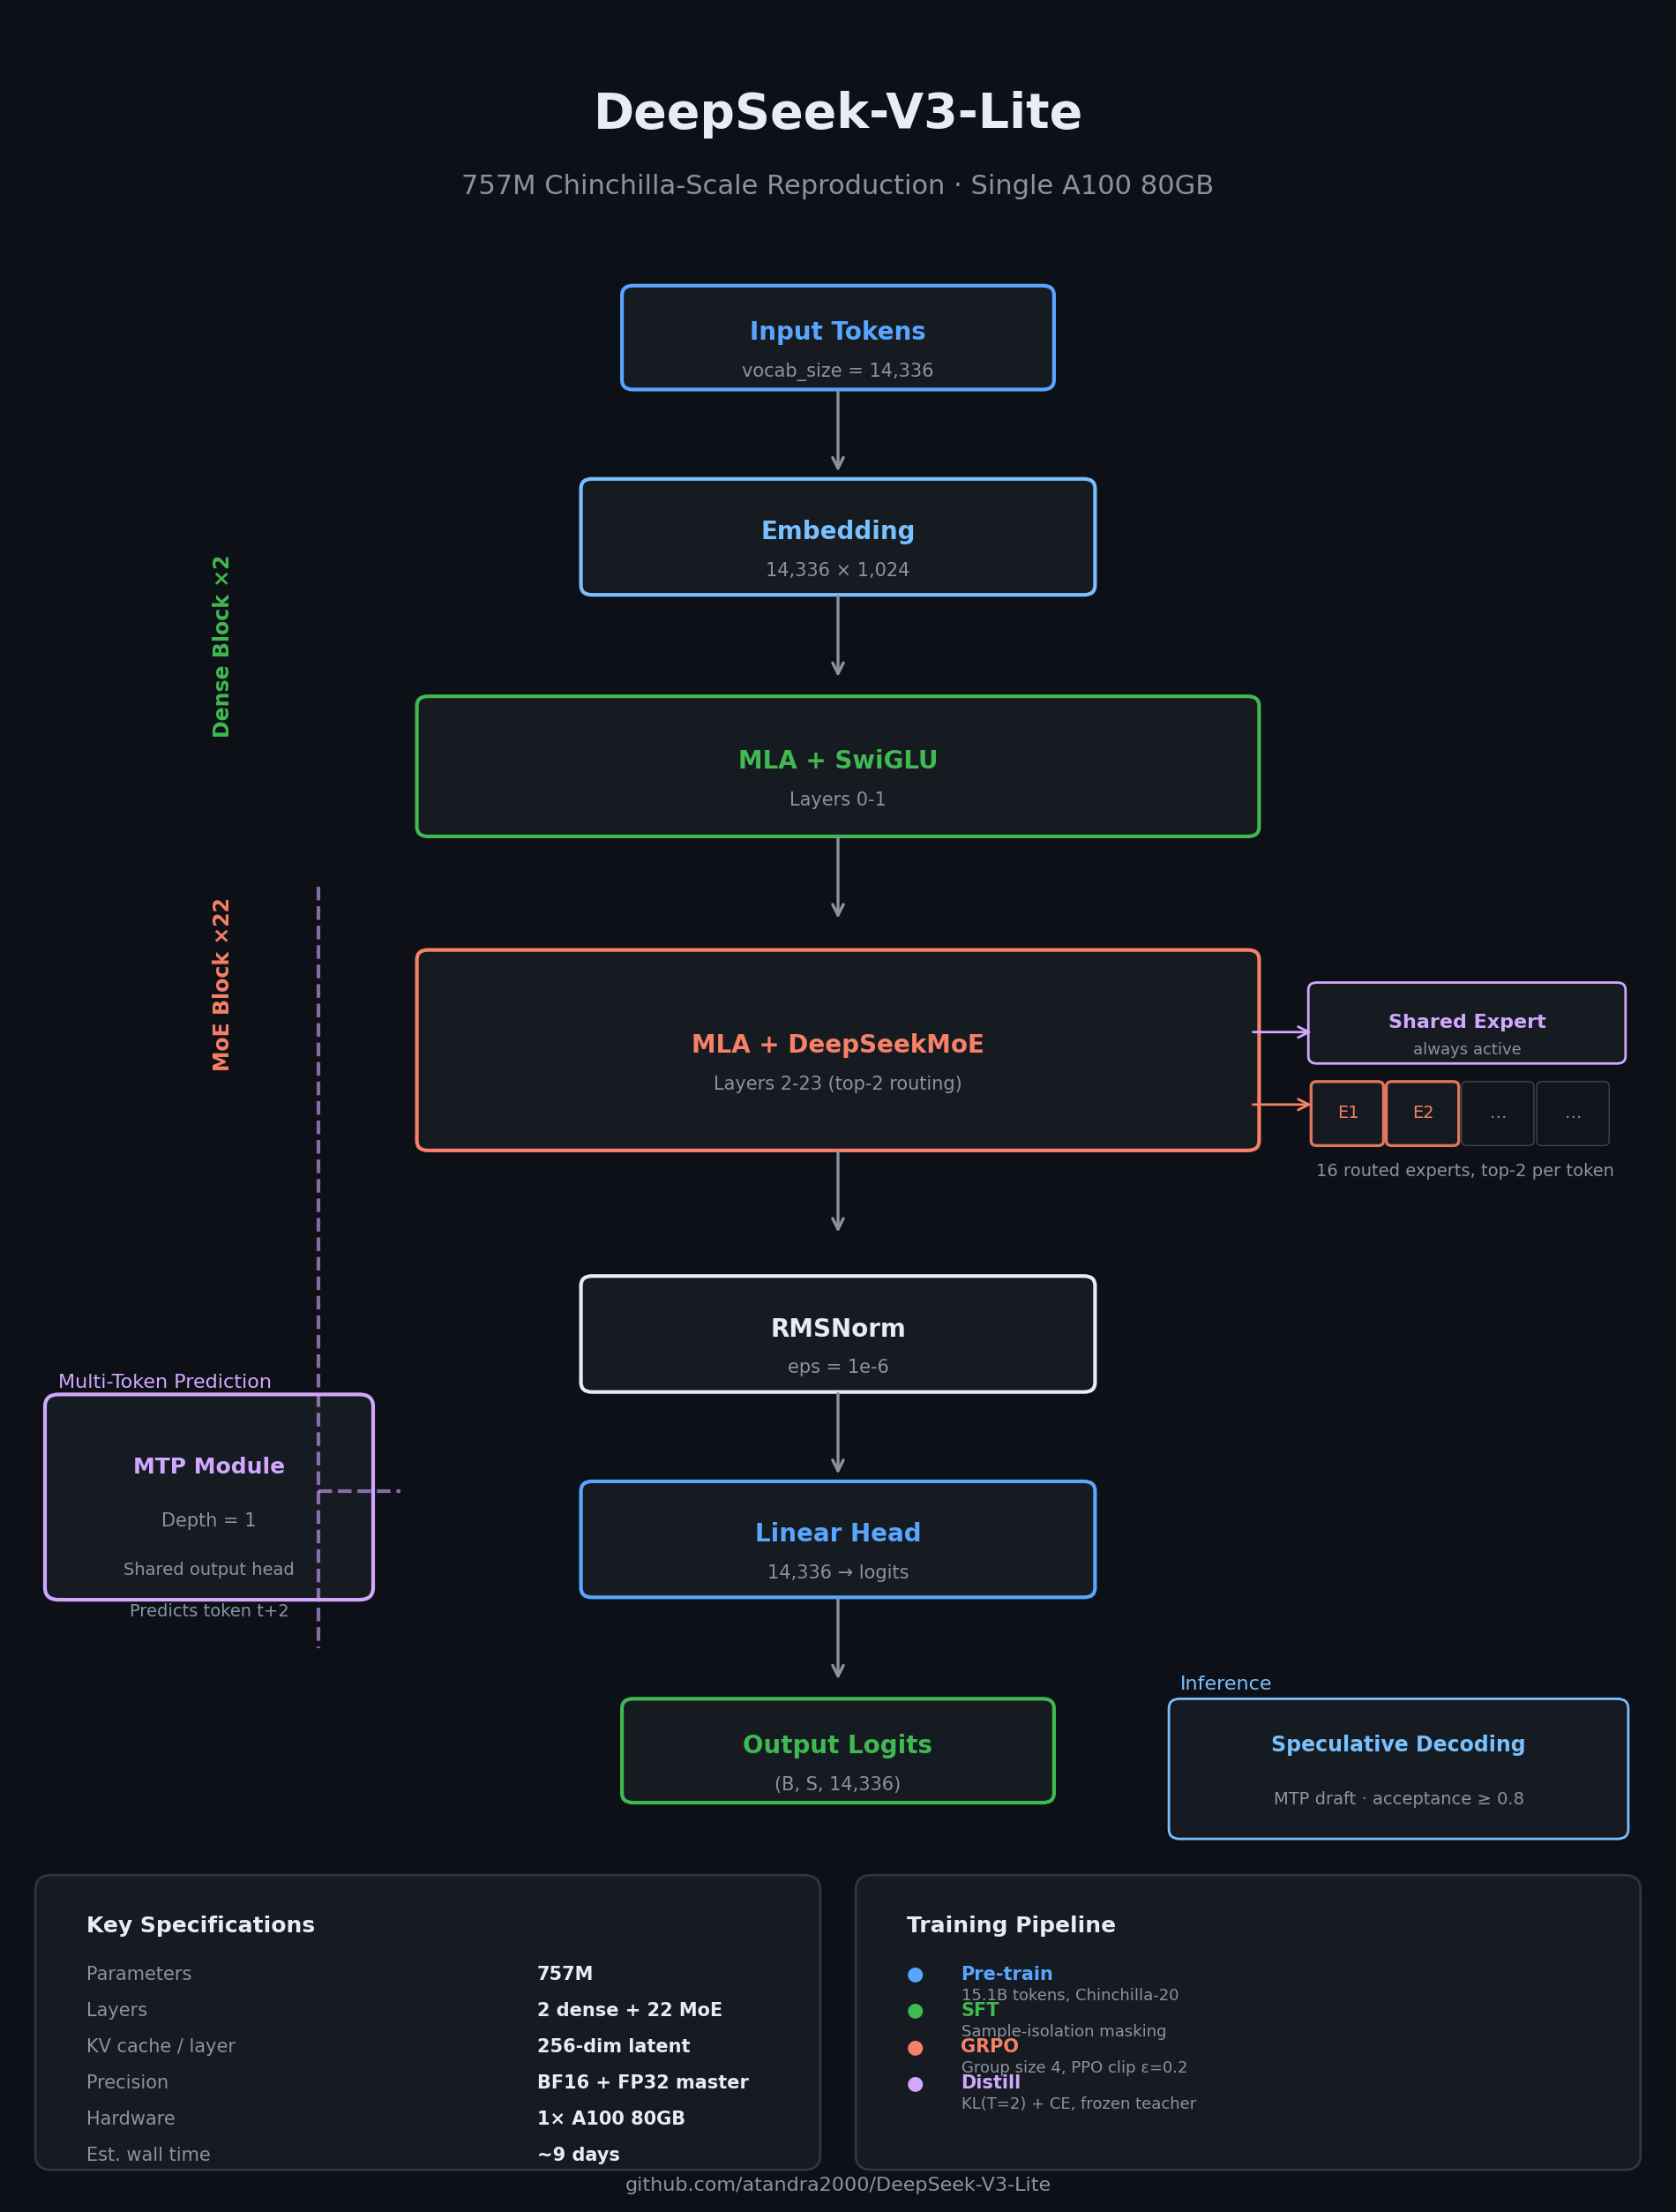
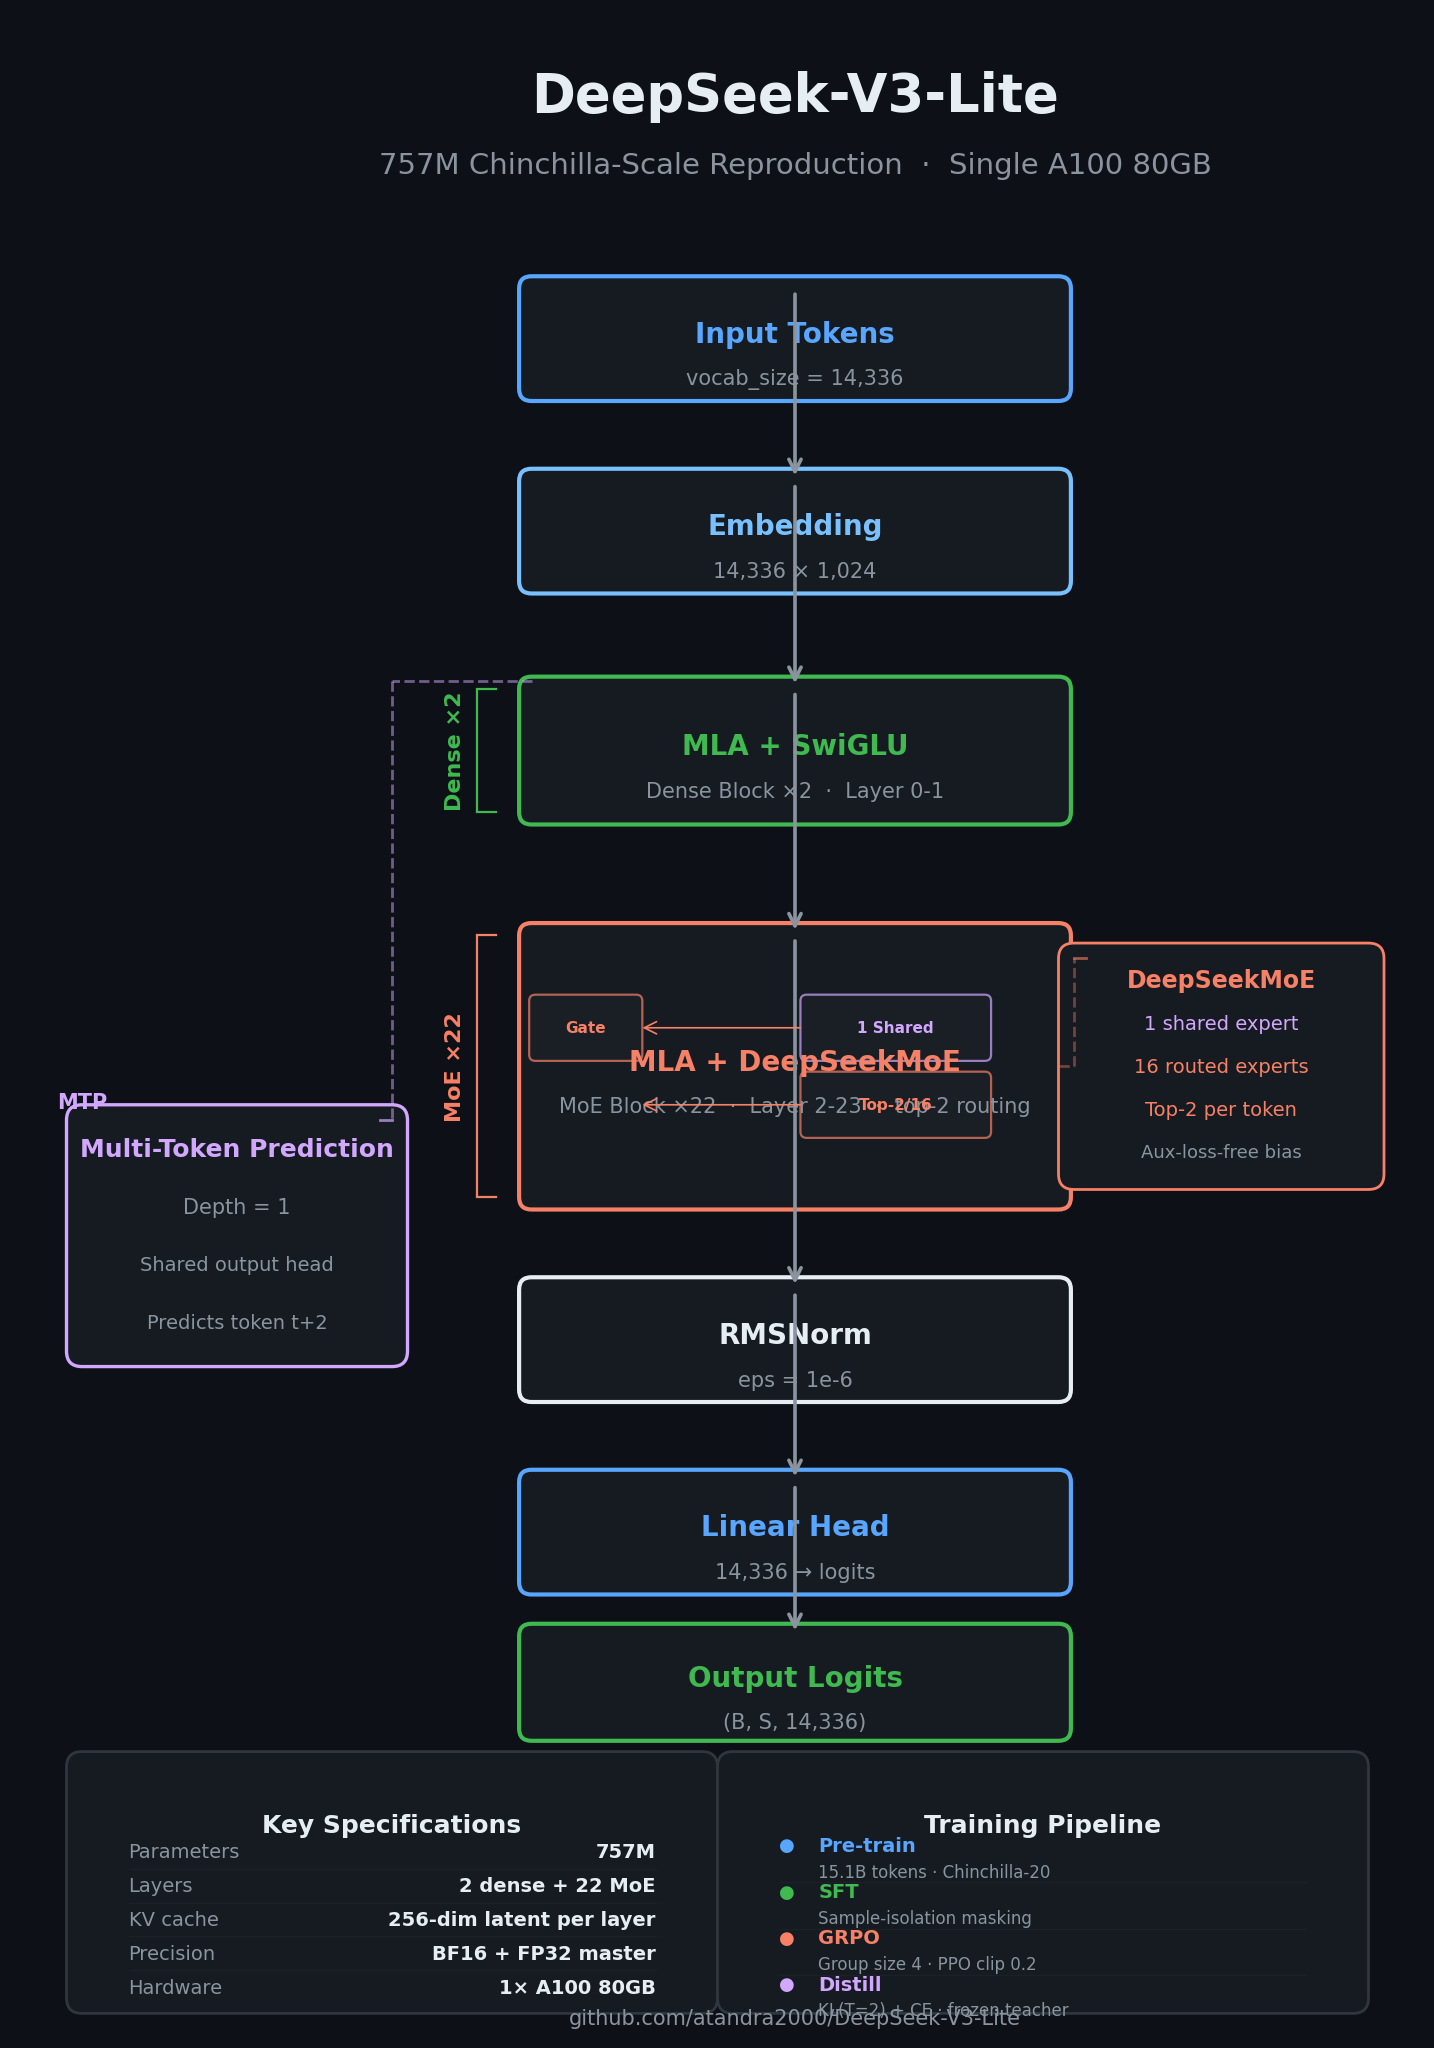
Fix architecture diagram alignment and polish
- Precisely aligned all arrows between consecutive blocks (bottom→top)
- Redesigned layout with consistent block widths and spacing
- Added bracket labels for Dense and MoE sections
- Cleaner MoE mini-diagram inside the main block
- Improved bottom panels with divider lines

diff --git a/assets/generate_plots.py b/assets/generate_plots.py
@@ -6,8 +6,7 @@ Output: assets/architecture_overview.png
 import matplotlib
 matplotlib.use("Agg")
 import matplotlib.pyplot as plt
-import matplotlib.patches as mpatches
-from matplotlib.patches import FancyBboxPatch, FancyArrowPatch
+from matplotlib.patches import FancyBboxPatch
 import numpy as np
 
 # ── Palette ──────────────────────────────────────────────────────────────
@@ -20,9 +19,8 @@ BLUE    = "#58a6ff"
 GREEN   = "#3fb950"
 CORAL   = "#f78166"
 PURPLE  = "#d2a8ff"
-ORANGE  = "#ffa657"
 CYAN    = "#79c0ff"
-SUBTLE  = "#21262d"
+SUBTLE  = "#1c2128"
 
 plt.rcParams.update({
     "figure.facecolor": BG, "axes.facecolor": BG,
@@ -30,174 +28,218 @@ plt.rcParams.update({
     "font.size": 11,
 })
 
-# ── helpers ──────────────────────────────────────────────────────────────
-def box(ax, x, y, w, h, color, label, sub="", lw=1.5, alpha=1.0):
+# ── Helpers ──────────────────────────────────────────────────────────────
+CX = 5.0   # center of main flow
+BW = 3.4   # main block width
+
+def label_box(ax, x, y, w, h, color, title, sub="", lw=1.5):
     r = FancyBboxPatch((x, y), w, h, boxstyle="round,pad=0.08",
-                        linewidth=lw, edgecolor=color, facecolor=CARD, alpha=alpha)
+                        linewidth=lw, edgecolor=color, facecolor=CARD)
     ax.add_patch(r)
-    ax.text(x + w/2, y + h/2 + 0.04, label, ha="center", va="center",
+    ax.text(x + w / 2, y + h / 2 + 0.03, title, ha="center", va="center",
             color=color, fontsize=10, fontweight="bold")
     if sub:
-        ax.text(x + w/2, y + h/2 - 0.28, sub, ha="center", va="center",
+        ax.text(x + w / 2, y + h / 2 - 0.26, sub, ha="center", va="center",
                 color=MUTED, fontsize=7.5)
 
-def arrow(ax, x1, y1, x2, y2, color=MUTED, lw=1.2):
-    ax.annotate("", xy=(x2, y2), xytext=(x1, y1),
+def v_arrow(ax, y1, y2, color=MUTED, lw=1.3):
+    ax.annotate("", xy=(CX, y2), xytext=(CX, y1),
                 arrowprops=dict(arrowstyle="->", color=color, lw=lw))
 
-def note(ax, x, y, text, color=MUTED, size=7.5, ha="left"):
-    ax.text(x, y, text, ha=ha, va="center", color=color, fontsize=size)
+def note_box(ax, x, y, w, h, color, lines, lw=1):
+    r = FancyBboxPatch((x, y), w, h, boxstyle="round,pad=0.1",
+                        linewidth=lw, edgecolor=color, facecolor=CARD)
+    ax.add_patch(r)
+    n = len(lines)
+    for i, (txt, col, sz, wt) in enumerate(lines):
+        ay = y + h - (i + 0.5) * h / n
+        ax.text(x + w / 2, ay, txt, ha="center", va="center",
+                color=col, fontsize=sz, fontweight=wt)
 
-# ── figure ───────────────────────────────────────────────────────────────
-fig, ax = plt.subplots(1, 1, figsize=(12, 16))
-ax.set_xlim(0, 12)
-ax.set_ylim(0, 18)
+# ── Figure setup ─────────────────────────────────────────────────────────
+fig, ax = plt.subplots(1, 1, figsize=(9, 13))
+ax.set_xlim(0, 9)
+ax.set_ylim(0, 13)
 ax.axis("off")
 
 # ── Title ────────────────────────────────────────────────────────────────
-ax.text(6, 17.2, "DeepSeek-V3-Lite", ha="center", va="center",
-        fontsize=20, fontweight="bold", color=TEXT)
-ax.text(6, 16.6, "757M Chinchilla-Scale Reproduction · Single A100 80GB",
-        ha="center", va="center", fontsize=11, color=MUTED)
+ax.text(CX, 12.5, "DeepSeek-V3-Lite", ha="center", va="center",
+        fontsize=19, fontweight="bold", color=TEXT)
+ax.text(CX, 12.05, "757M Chinchilla-Scale Reproduction  ·  Single A100 80GB",
+        ha="center", va="center", fontsize=10.5, color=MUTED)
 
-# ── Section: Input ──────────────────────────────────────────────────────
-box(ax, 4.5, 15.0, 3, 0.7, BLUE, "Input Tokens", "vocab_size = 14,336")
-arrow(ax, 6, 14.95, 6, 14.2)
+# ── Main flow blocks with explicit (x, y, w, h) ─────────────────────────
+# All blocks centered at CX with width BW.
+bx = CX - BW / 2   # block left x (constant)
 
-# ── Section: Embedding ─────────────────────────────────────────────────
-box(ax, 4.2, 13.3, 3.6, 0.8, CYAN, "Embedding", "14,336 × 1,024")
-arrow(ax, 6, 13.25, 6, 12.5)
+blocks = [
+    # (y, h, color, title, sub)
+    (10.6, 0.65, BLUE,  "Input Tokens",    "vocab_size = 14,336"),
+    (9.35, 0.65, CYAN,  "Embedding",        "14,336 × 1,024"),
+    (7.85, 0.80, GREEN, "MLA + SwiGLU",     "Dense Block ×2  ·  Layer 0-1"),
+    (5.35, 1.70, CORAL, "MLA + DeepSeekMoE","MoE Block ×22  ·  Layer 2-23  ·  top-2 routing"),
+    (4.10, 0.65, TEXT,  "RMSNorm",          "eps = 1e-6"),
+    (2.85, 0.65, BLUE,  "Linear Head",      "14,336 → logits"),
+    (1.90, 0.60, GREEN, "Output Logits",    "(B, S, 14,336)"),
+]
 
-# ── Section: Dense Layers ──────────────────────────────────────────────
-ax.text(1.5, 12.8, "Dense Block ×2", ha="center", va="center",
-        fontsize=8.5, fontweight="bold", color=GREEN, rotation=90)
+for y, h, c, t, s in blocks:
+    label_box(ax, bx, y, BW, h, c, t, s)
 
-box(ax, 3.0, 11.3, 6, 1.0, GREEN, "MLA + SwiGLU", "Layers 0-1")
-arrow(ax, 6, 11.25, 6, 10.5)
+# Arrows between consecutive blocks (from bottom of one to top of next)
+# v_arrow(y_from, y_to) where y_from > y_to (downward in figure coords)
+for i in range(len(blocks) - 1):
+    y_from = blocks[i][0] + blocks[i][1]   # bottom of current
+    y_to   = blocks[i + 1][0] + blocks[i + 1][1]  # top of next = y + h
+    v_arrow(ax, y_from, y_to)
 
-# ── Section: MoE Layers ────────────────────────────────────────────────
-ax.text(1.5, 10.0, "MoE Block ×22", ha="center", va="center",
-        fontsize=8.5, fontweight="bold", color=CORAL, rotation=90)
+# ── MoE detail mini-diagram (inside MoE block) ──────────────────────────
+moe_y, moe_h = blocks[3][0], blocks[3][1]  # (5.35, 1.70)
+moe_cx = CX + 0.05
+moe_cy = moe_y + moe_h / 2
 
-# MoE layer main block
-box(ax, 3.0, 8.7, 6, 1.5, CORAL, "MLA + DeepSeekMoE", "Layers 2-23 (top-2 routing)")
-arrow(ax, 6, 8.65, 6, 7.9)
-
-# ── MoE detail callout ─────────────────────────────────────────────────
-# Shared expert
-r = FancyBboxPatch((9.5, 9.4), 2.2, 0.55, boxstyle="round,pad=0.06",
-                    linewidth=1, edgecolor=PURPLE, facecolor=CARD)
-ax.add_patch(r)
-ax.text(10.6, 9.68, "Shared Expert", ha="center", va="center",
-        color=PURPLE, fontsize=8, fontweight="bold")
-ax.text(10.6, 9.45, "always active", ha="center", va="center",
-        color=MUTED, fontsize=6.5)
-arrow(ax, 9.0, 9.6, 9.5, 9.6, color=PURPLE, lw=1)
-
-# Routed experts
-for i in range(4):
-    rx = 9.5 + i * 0.55
-    c = CORAL if i < 2 else MUTED
-    lw = 1.2 if i < 2 else 0.5
-    al = 0.9 if i < 2 else 0.4
-    rr = FancyBboxPatch((rx, 8.7), 0.45, 0.45, boxstyle="round,pad=0.04",
-                         linewidth=lw, edgecolor=c, facecolor=CARD, alpha=al)
+mini_items = [
+    (moe_cx - 1.4, moe_cy + 0.25, 0.65, 0.35, CORAL,  "Gate",    5.5),
+    (moe_cx + 0.6, moe_cy + 0.25, 1.15, 0.35, PURPLE, "1 Shared", 5.5),
+    (moe_cx + 0.6, moe_cy - 0.25, 1.15, 0.35, CORAL,  "Top-2/16", 5.5),
+]
+for xi, yi, wi, hi, ci, ti, si in mini_items:
+    rr = FancyBboxPatch((xi - wi / 2, yi - hi / 2), wi, hi,
+                         boxstyle="round,pad=0.04", linewidth=0.8,
+                         edgecolor=ci, facecolor=SUBTLE, alpha=0.7)
     ax.add_patch(rr)
-    ax.text(rx + 0.23, 8.93, f"E{i+1}" if i < 2 else "…",
-            ha="center", va="center", color=c, fontsize=7)
-arrow(ax, 9.0, 9.0, 9.5, 9.0, color=CORAL, lw=1)
+    ax.text(xi, yi, ti, ha="center", va="center", color=ci, fontsize=si,
+            fontweight="bold")
 
-note(ax, 9.5, 8.45, "16 routed experts, top-2 per token", size=7)
+# Mini arrows inside MoE block
+ax.annotate("", xy=(moe_cx - 1.4 + 0.33, moe_cy + 0.25),
+            xytext=(moe_cx + 0.6 - 0.58, moe_cy + 0.25),
+            arrowprops=dict(arrowstyle="->", color=CORAL, lw=0.6))
+ax.annotate("", xy=(moe_cx - 1.4 + 0.33, moe_cy - 0.25),
+            xytext=(moe_cx + 0.6 - 0.58, moe_cy - 0.25),
+            arrowprops=dict(arrowstyle="->", color=CORAL, lw=0.6))
 
-# ── Section: Output ────────────────────────────────────────────────────
-box(ax, 4.2, 6.7, 3.6, 0.8, TEXT, "RMSNorm", "eps = 1e-6")
-arrow(ax, 6, 6.65, 6, 5.9)
+# Section bracket labels (left of flow)
+bracket_x = bx - 0.35
+for y_bot, h, label, col in [
+    (7.85, 0.80, "Dense ×2", GREEN),
+    (5.35, 1.70, "MoE ×22",  CORAL),
+]:
+    y_top = y_bot + h
+    ax.plot([bracket_x, bracket_x], [y_bot, y_top], color=col, lw=0.8, solid_capstyle="round")
+    ax.plot([bracket_x, bracket_x + 0.12], [y_top, y_top], color=col, lw=0.8)
+    ax.plot([bracket_x, bracket_x + 0.12], [y_bot, y_bot], color=col, lw=0.8)
+    ax.text(bracket_x - 0.08, (y_bot + y_top) / 2, label,
+            ha="right", va="center", color=col, fontsize=8, fontweight="bold",
+            rotation=90)
 
-box(ax, 4.2, 5.0, 3.6, 0.8, BLUE, "Linear Head", "14,336 → logits")
-arrow(ax, 6, 4.95, 6, 4.2)
+# ── Left panel: MTP ──────────────────────────────────────────────────────
+mtp_x = 0.4
+mtp_w = 2.0
+mtp_h = 1.5
+mtp_y = 4.35
 
-box(ax, 4.5, 3.3, 3, 0.7, GREEN, "Output Logits", "(B, S, 14,336)")
+# Connection line from dense-to-MoE gap
+conn_y = blocks[2][0] + blocks[2][1] + 0.05  # just below dense bottom
+ax.plot([bx, mtp_x + mtp_w], [conn_y, conn_y], color=PURPLE, lw=1, ls="--", alpha=0.5)
+ax.plot([mtp_x + mtp_w, mtp_x + mtp_w], [conn_y, mtp_y + mtp_h],
+        color=PURPLE, lw=1, ls="--", alpha=0.5)
+ax.plot([mtp_x + mtp_w, mtp_x + mtp_w - 0.08], [mtp_y + mtp_h, mtp_y + mtp_h],
+        color=PURPLE, lw=1, alpha=0.7)
 
-# ── MTP side panel ─────────────────────────────────────────────────────
-# Vertical bar indicating MTP branch
-ax.plot([2.2, 2.2], [10.8, 4.5], color=PURPLE, lw=1.5, ls="--", alpha=0.6)
-ax.plot([2.2, 2.8], [5.8, 5.8], color=PURPLE, lw=1.5, ls="--", alpha=0.6)
+note_box(ax, mtp_x, mtp_y, mtp_w, mtp_h, PURPLE, [
+    ("Multi-Token Prediction", PURPLE, 9, "bold"),
+    ("Depth = 1", MUTED, 7.5, "normal"),
+    ("Shared output head", MUTED, 7, "normal"),
+    ("Predicts token t+2", MUTED, 7, "normal"),
+], lw=1.2)
 
-# MTP block
-r = FancyBboxPatch((0.3, 5.0), 2.2, 1.5, boxstyle="round,pad=0.1",
-                    linewidth=1.5, edgecolor=PURPLE, facecolor=CARD)
-ax.add_patch(r)
-ax.text(1.4, 6.0, "MTP Module", ha="center", va="center",
-        color=PURPLE, fontsize=9, fontweight="bold")
-ax.text(1.4, 5.55, "Depth = 1", ha="center", va="center",
-        color=MUTED, fontsize=7.5)
-ax.text(1.4, 5.15, "Shared output head", ha="center", va="center",
-        color=MUTED, fontsize=7)
-ax.text(1.4, 4.8, "Predicts token t+2", ha="center", va="center",
-        color=MUTED, fontsize=7)
+ax.text(mtp_x, mtp_y + mtp_h + 0.12, "MTP", ha="center", va="center",
+        color=PURPLE, fontsize=7.5, fontweight="bold")
 
-note(ax, 0.3, 6.7, "Multi-Token Prediction", size=8, color=PURPLE, ha="left")
+# ── Right panel: MoE callout ────────────────────────────────────────────
+rd_x = 6.8
+rd_w = 1.9
+rd_y = blocks[3][0] + 0.15
+rd_h = blocks[3][1] - 0.3
 
-# ── Speculative decoding note ──────────────────────────────────────────
-r = FancyBboxPatch((8.5, 3.0), 3.2, 1.0, boxstyle="round,pad=0.08",
-                    linewidth=1, edgecolor=CYAN, facecolor=CARD)
-ax.add_patch(r)
-ax.text(10.1, 3.7, "Speculative Decoding", ha="center", va="center",
-        color=CYAN, fontsize=8.5, fontweight="bold")
-ax.text(10.1, 3.25, "MTP draft · acceptance ≥ 0.8", ha="center", va="center",
-        color=MUTED, fontsize=7)
+# Connection from MoE block
+r_conn_y = blocks[3][0] + blocks[3][1] / 2
+ax.plot([bx + BW, rd_x], [r_conn_y, r_conn_y], color=CORAL, lw=1, ls="--", alpha=0.4)
+ax.plot([rd_x, rd_x], [r_conn_y, rd_y + rd_h], color=CORAL, lw=1, ls="--", alpha=0.4)
+ax.plot([rd_x, rd_x + 0.08], [rd_y + rd_h, rd_y + rd_h], color=CORAL, lw=1, alpha=0.6)
 
-note(ax, 8.5, 4.2, "Inference", size=8, color=CYAN, ha="left")
+note_box(ax, rd_x, rd_y, rd_w, rd_h, CORAL, [
+    ("DeepSeekMoE", CORAL, 8.5, "bold"),
+    ("1 shared expert", PURPLE, 7, "normal"),
+    ("16 routed experts", CORAL, 7, "normal"),
+    ("Top-2 per token", CORAL, 7, "normal"),
+    ("Aux-loss-free bias", MUTED, 6.5, "normal"),
+], lw=1)
 
-# ── Key metrics panel ──────────────────────────────────────────────────
+# ── Bottom left: Key Specifications ──────────────────────────────────────
+specs_x = 0.4
+specs_y = 0.15
+specs_w = 4.0
+specs_h = 1.5
+
+note_box(ax, specs_x, specs_y, specs_w, specs_h, BORDER, [
+    ("Key Specifications", TEXT, 9, "bold"),
+    ("", MUTED, 2, "normal"),
+], lw=1)
+
 metrics = [
     ("Parameters", "757M"),
     ("Layers", "2 dense + 22 MoE"),
-    ("KV cache / layer", "256-dim latent"),
+    ("KV cache", "256-dim latent per layer"),
     ("Precision", "BF16 + FP32 master"),
     ("Hardware", "1× A100 80GB"),
-    ("Est. wall time", "~9 days"),
 ]
-
-r = FancyBboxPatch((0.25, 0.3), 5.5, 2.2, boxstyle="round,pad=0.12",
-                    linewidth=1, edgecolor=BORDER, facecolor=CARD)
-ax.add_patch(r)
-ax.text(0.5, 2.2, "Key Specifications", ha="left", va="center",
-        color=TEXT, fontsize=9, fontweight="bold")
-
+n_met = len(metrics)
 for i, (k, v) in enumerate(metrics):
-    y = 1.8 - i * 0.3
-    ax.text(0.5, y, k, ha="left", va="center", color=MUTED, fontsize=7.5)
-    ax.text(3.8, y, v, ha="left", va="center", color=TEXT, fontsize=7.5,
-            fontweight="bold")
+    row_y = specs_y + specs_h - 0.55 - i * 0.22
+    ax.text(specs_x + 0.3, row_y, k, ha="left", va="center",
+            color=MUTED, fontsize=7)
+    ax.text(specs_x + specs_w - 0.3, row_y, v, ha="right", va="center",
+            color=TEXT, fontsize=7, fontweight="bold")
+    if i < n_met - 1:
+        ax.plot([specs_x + 0.3, specs_x + specs_w - 0.3],
+                [row_y - 0.11, row_y - 0.11], color=SUBTLE, lw=0.5)
 
-# ── Training stages panel ──────────────────────────────────────────────
+# ── Bottom right: Training Pipeline ──────────────────────────────────────
+pipe_x = 4.6
+pipe_y = 0.15
+pipe_w = 4.0
+pipe_h = 1.5
+
+note_box(ax, pipe_x, pipe_y, pipe_w, pipe_h, BORDER, [
+    ("Training Pipeline", TEXT, 9, "bold"),
+    ("", MUTED, 2, "normal"),
+], lw=1)
+
 stages = [
-    ("Pre-train", "15.1B tokens, Chinchilla-20", BLUE),
+    ("Pre-train", "15.1B tokens · Chinchilla-20", BLUE),
     ("SFT", "Sample-isolation masking", GREEN),
-    ("GRPO", "Group size 4, PPO clip ε=0.2", CORAL),
-    ("Distill", "KL(T=2) + CE, frozen teacher", PURPLE),
+    ("GRPO", "Group size 4 · PPO clip 0.2", CORAL),
+    ("Distill", "KL(T=2) + CE · frozen teacher", PURPLE),
 ]
-
-r = FancyBboxPatch((6.25, 0.3), 5.5, 2.2, boxstyle="round,pad=0.12",
-                    linewidth=1, edgecolor=BORDER, facecolor=CARD)
-ax.add_patch(r)
-ax.text(6.5, 2.2, "Training Pipeline", ha="left", va="center",
-        color=TEXT, fontsize=9, fontweight="bold")
-
 for i, (name, desc, col) in enumerate(stages):
-    y = 1.8 - i * 0.3
-    ax.text(6.5, y, "●", ha="left", va="center", color=col, fontsize=8)
-    ax.text(6.9, y, name, ha="left", va="center", color=col, fontsize=7.5,
-            fontweight="bold")
-    ax.text(6.9, y - 0.18, desc, ha="left", va="center", color=MUTED,
-            fontsize=6.5)
+    row_y = pipe_y + pipe_h - 0.55 - i * 0.30
+    ax.text(pipe_x + 0.3, row_y + 0.04, "●", ha="left", va="center",
+            color=col, fontsize=6.5)
+    ax.text(pipe_x + 0.55, row_y + 0.04, name, ha="left", va="center",
+            color=col, fontsize=7, fontweight="bold")
+    ax.text(pipe_x + 0.55, row_y - 0.13, desc, ha="left", va="center",
+            color=MUTED, fontsize=6)
+    if i < len(stages) - 1:
+        ax.plot([pipe_x + 0.3, pipe_x + pipe_w - 0.3],
+                [row_y - 0.20, row_y - 0.20], color=SUBTLE, lw=0.5)
 
-# ── Footer ─────────────────────────────────────────────────────────────
-ax.text(6, 0.05, "github.com/atandra2000/DeepSeek-V3-Lite",
-        ha="center", va="center", color=MUTED, fontsize=8)
+# ── Footer ────────────────────────────────────────────────────────────────
+ax.text(CX, 0.02, "github.com/atandra2000/DeepSeek-V3-Lite",
+        ha="center", va="center", color=MUTED, fontsize=7.5)
 
-# ── Save ────────────────────────────────────────────────────────────────
+# ── Save ──────────────────────────────────────────────────────────────────
 out = "assets/architecture_overview.png"
 plt.savefig(out, dpi=200, bbox_inches="tight", facecolor=BG)
 print(f"Saved → {out}")